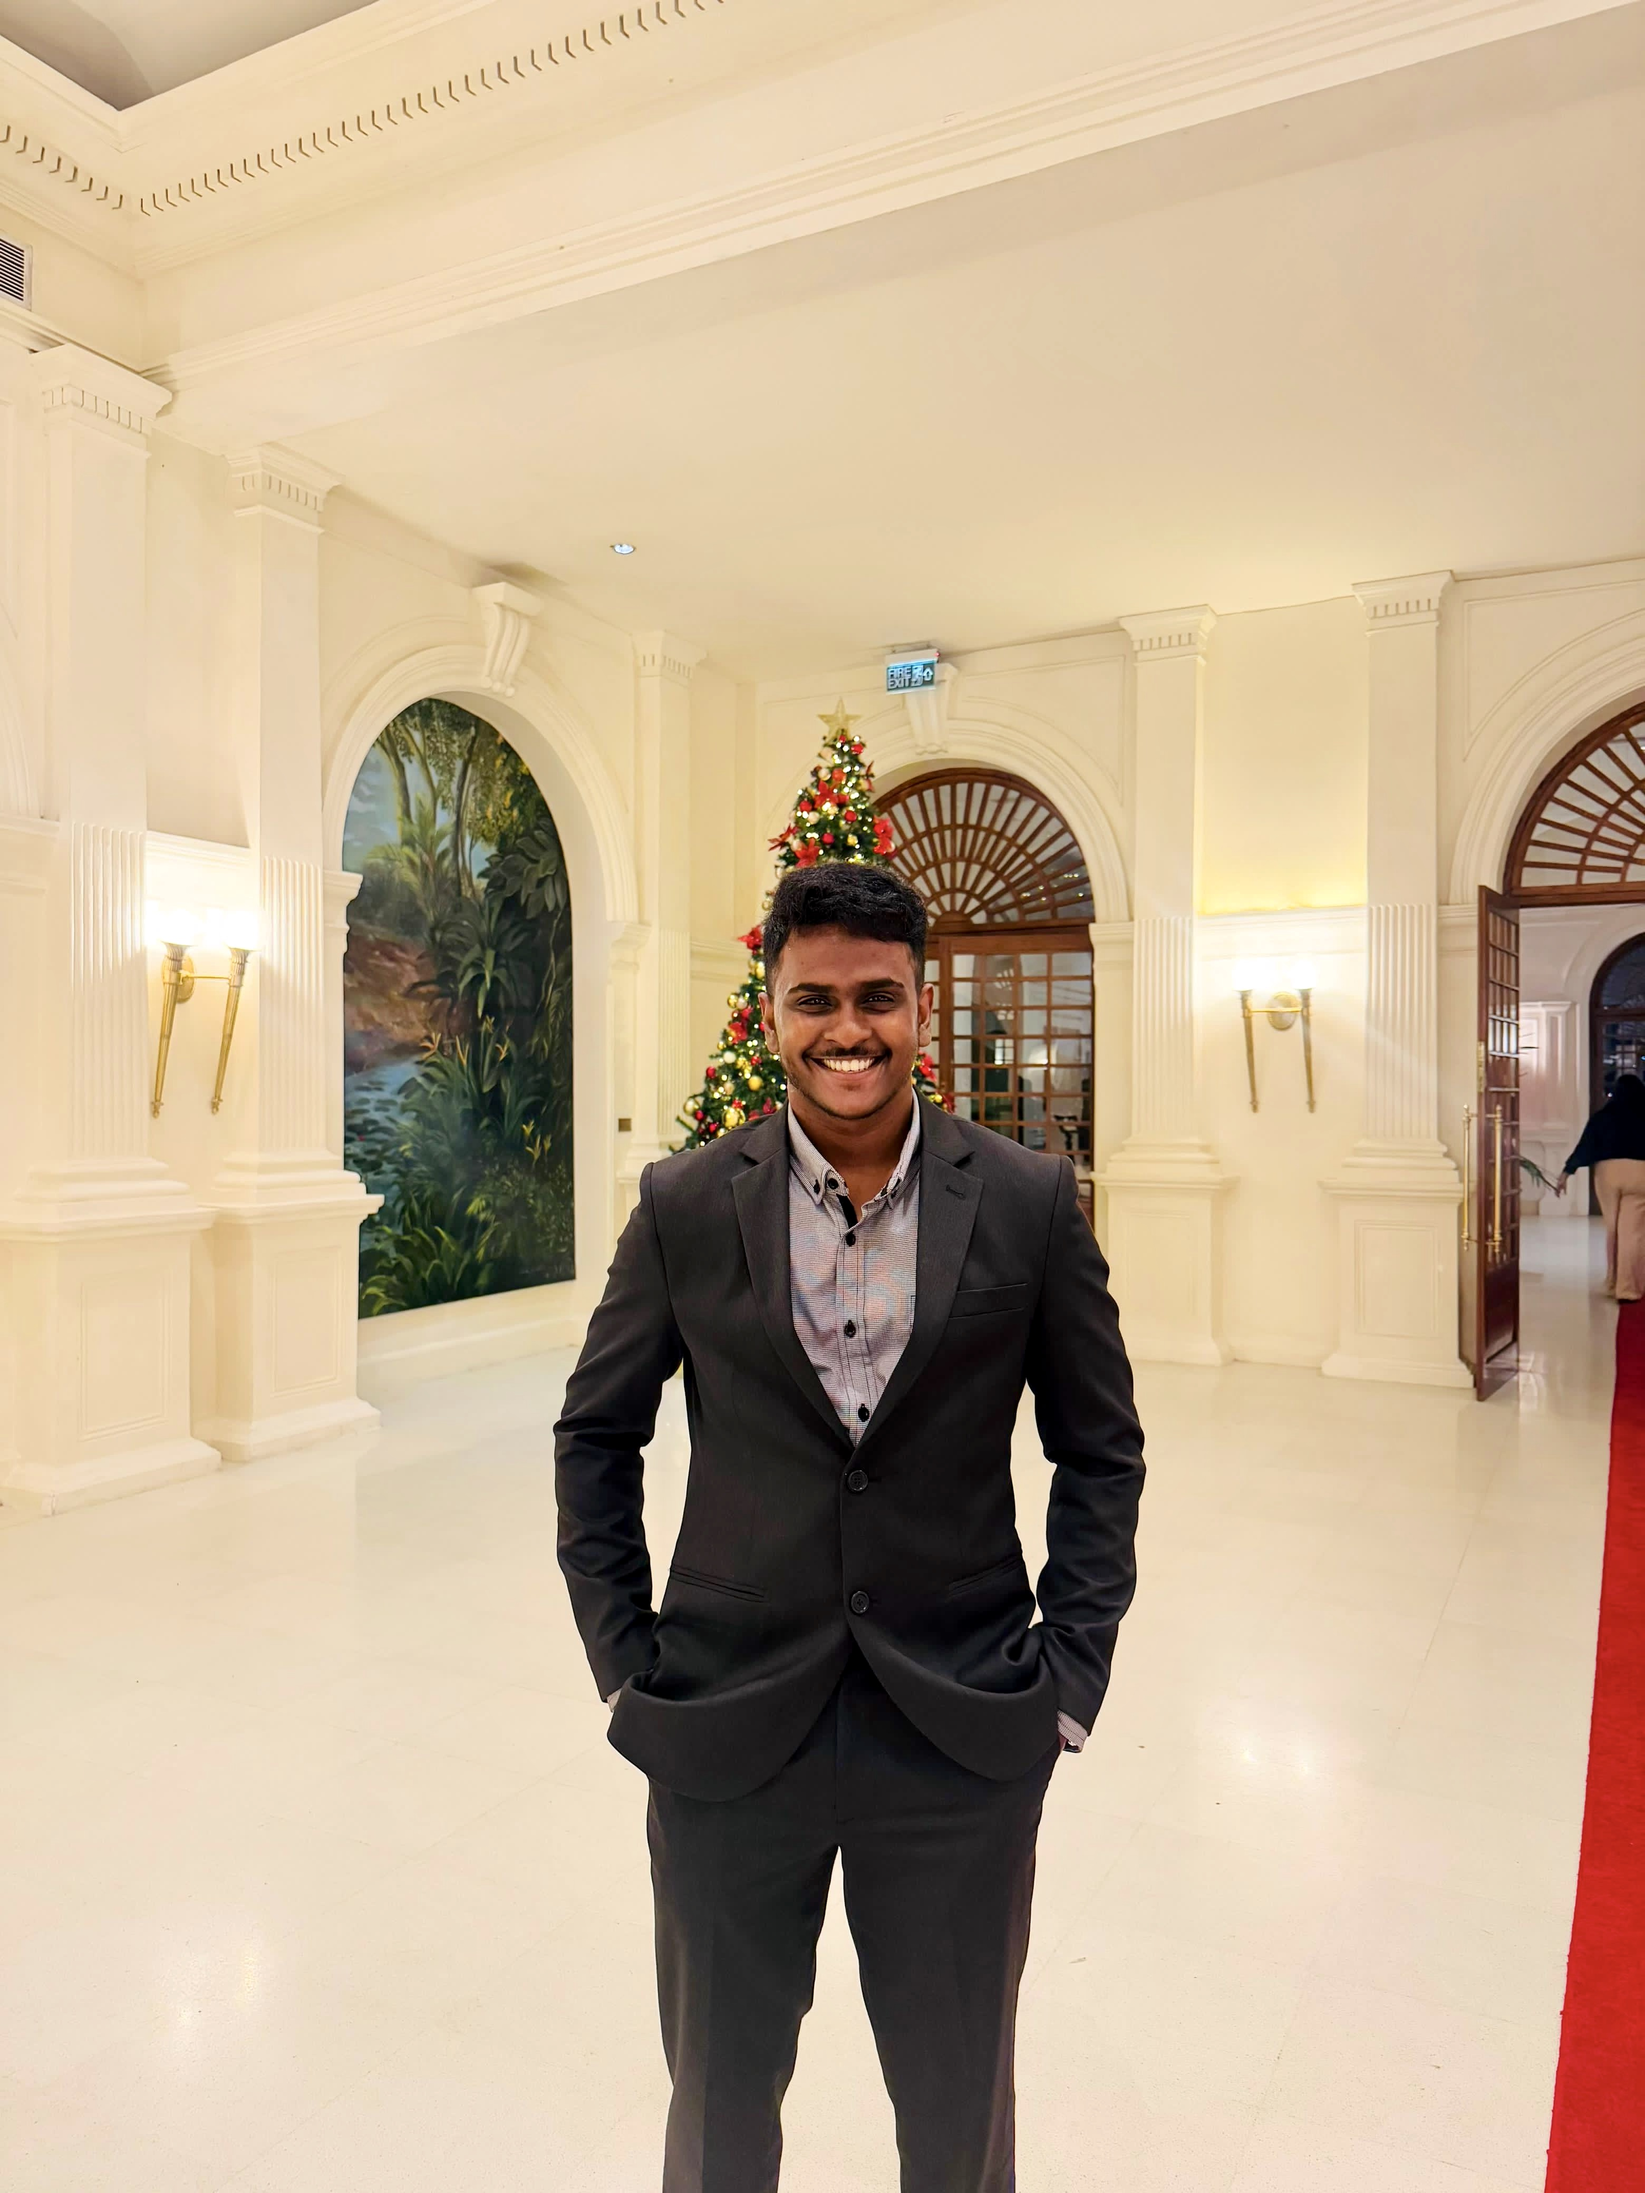
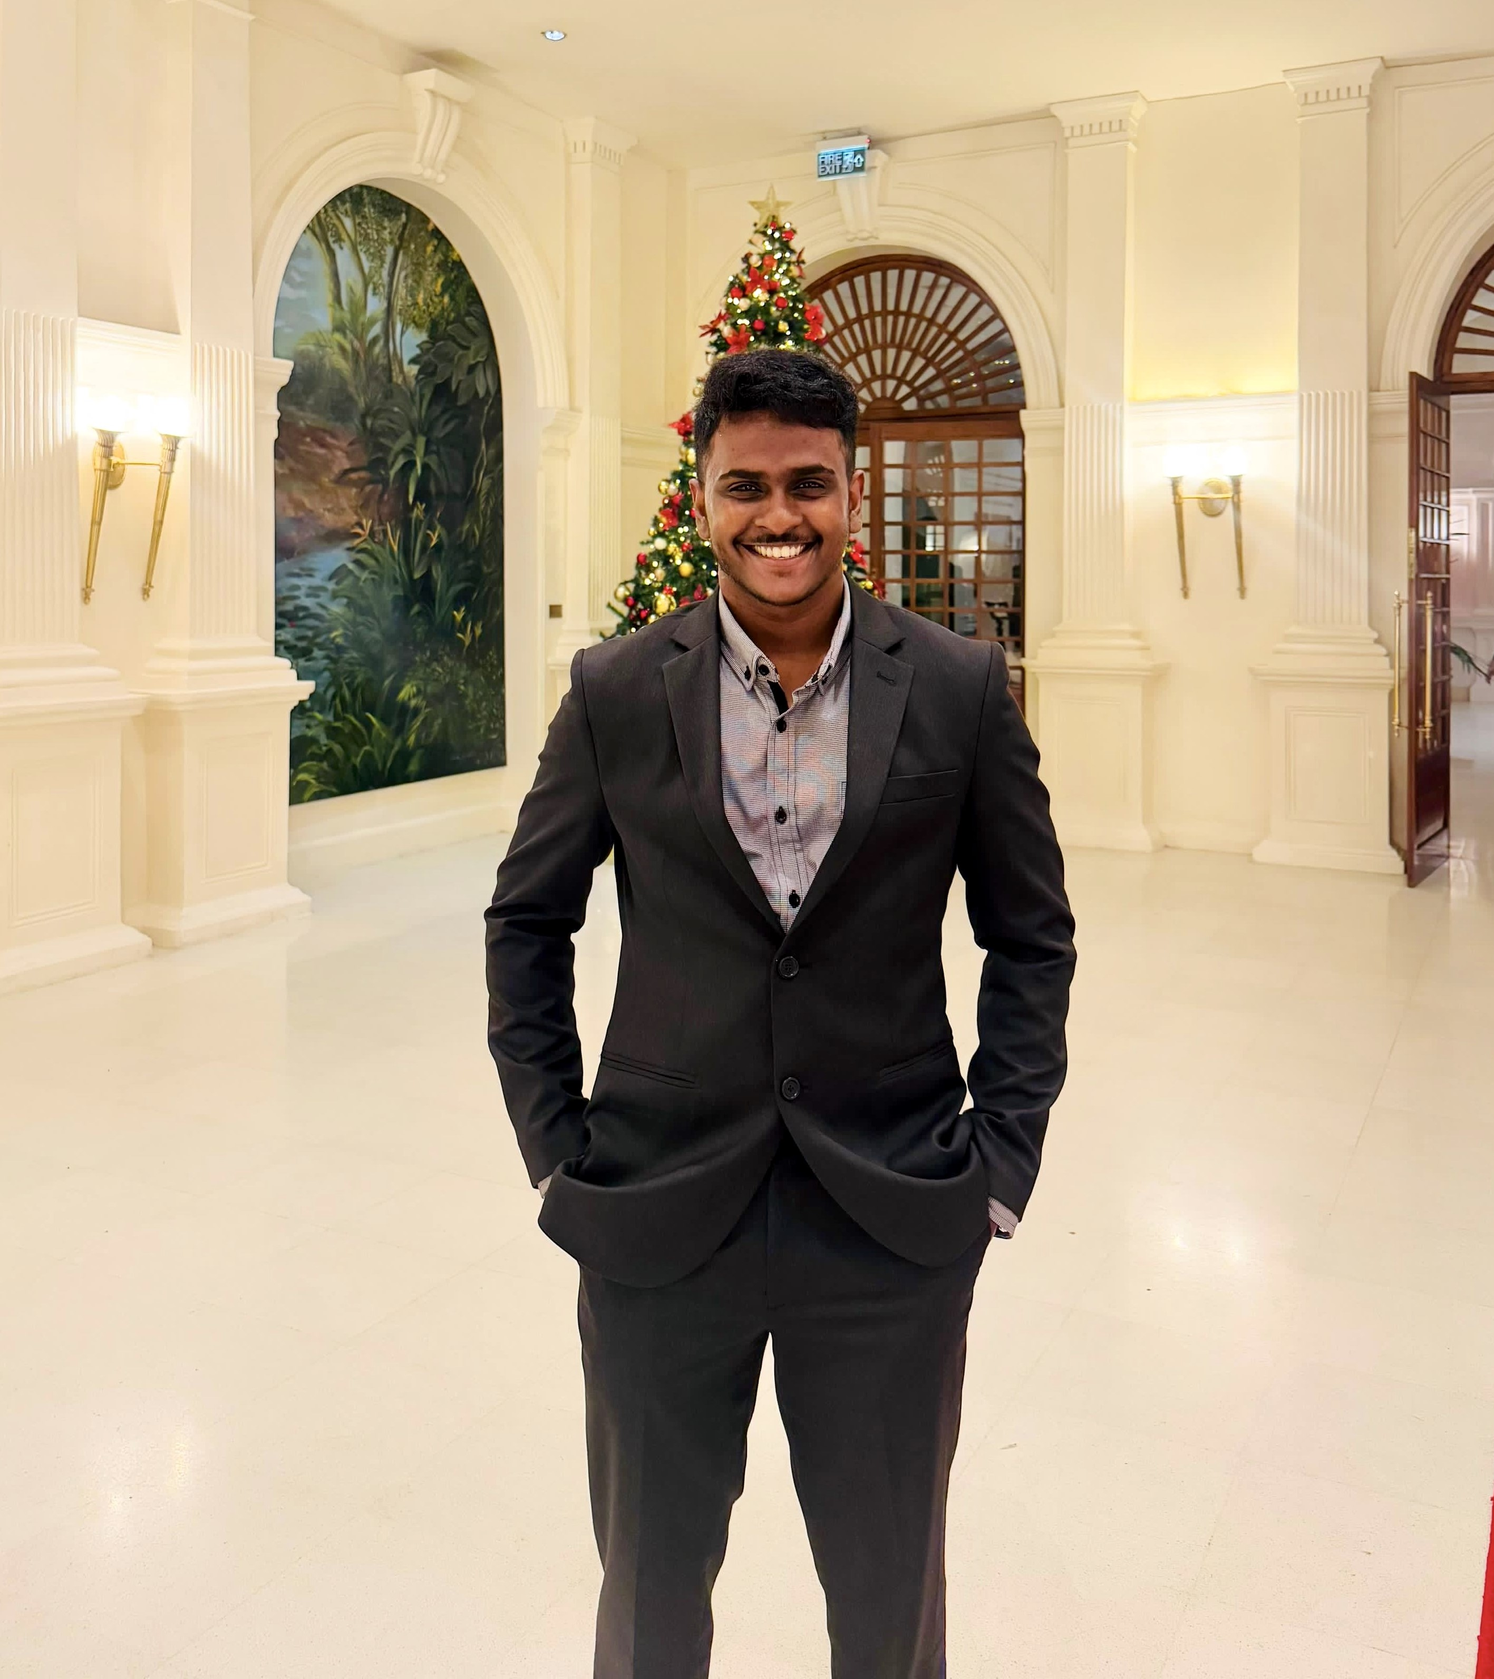
Developed About & Education  sections

diff --git a/css/style.css b/css/style.css
@@ -76,7 +76,7 @@ section {
     display: flex;
     align-items: center;
     padding: 0 9%;
-    /* background: url('../images/nadul.jpg') no-repeat;
+    /*background: url('../images/nadul1.jpg') no-repeat;
     background-size: cover;
     background-position: center; */
 }
@@ -223,12 +223,167 @@ section {
     height: 100;
     background: transparent;
     border: 2px solid red;
+}  */
+
+.about {
+    display: flex;
+    justify-content: center;
+    align-items: center;
+    flex-direction: column;
+    gap: 2rem;
+    background: var(--second-bg-color);
+    padding-bottom: 6rem;
+}
+
+.heading {
+    font-size: 5rem;
+    margin-bottom: 3rem;
+    text-align: center;
+}
+
+span{
+    color: var(--main-color);
+}
+
+/*.about-img .circle-spin{
+    position: absolute;
+    top: 50%;
+    left: 50%;
+    transform: translate(-50%,-50%) rotate(0);
+    width: 100%;
+    height: 100%;
+    border-radius: 50%;
+    border-top: .2rem solid var(--second-bg-color);
+    border-bottom: .2rem solid var(--second-bg-color);
+    border-left: .2rem solid var(--main-color);
+    border-right: .2rem solid var(--main-color);
 } */
 
+.about-img {
+    position: relative;
+    width: 40rem;
+    height: 40rem;
+    border-radius: 50%;
+    display: flex;
+    justify-content: center;
+    align-items: center;
+}
 
+.about-img img {
+    width: 90%;
+    border-radius: 50%;
+    border: .2rem solid var(--main-color);
+}
 
+.about-content{
+    text-align: center;
+}
 
+.about-content h3{
+    font-size: 2.6rem;
+}
 
+.about-content p{
+    font-size: 1.6rem;
+    margin: 2rem 0 3rem;
+}
+
+.btn-box.btn {
+    display: inline-block;
+    width: 15rem;
+}
+
+.btn-box.btn a::before{
+    background: var(--second-bg-color);   
+}
+
+.education {
+    display: flex;
+    justify-content: center;
+    align-items: center;
+    flex-direction: column;
+    min-height: auto;
+    padding-bottom: 5rem;
+}
+
+.education .education-row{
+    display: flex;
+    flex-wrap: wrap;
+    gap: 5rem;
+}
+
+.education-row .education-column{
+    flex: 1 1 40rem;
+}
+
+.education-column .title {
+    font-size: 2.5rem;
+    margin: 0 0 1.5rem 2rem;
+}
+
+.education-column .education-box{
+    border-left: .2rem solid var(--main-color);
+}
+
+.education-box .education-content {
+    position: relative;
+    padding-left: 2rem;
+}
+
+.education-box .education-content::before{
+    content: '';
+    position: absolute;
+    top: 0;
+    left: -1.1rem;
+    width: 2rem;
+    height: 2rem;
+    background: var(--main-color);
+    border-radius: 50%;
+}
+
+.education-content .content{
+    position: relative;
+    padding: 1.5rem;
+    border: .2rem solid var(--main-color);
+    border-radius: .6rem;
+    margin-bottom: 2rem;
+    overflow: hidden;
+}
+
+.education-content .content::before{
+    content: '';
+    position: absolute;
+    top: 0;
+    left: 0;
+    width: 0;
+    height: 100%;
+    background: var(--second-bg-color);
+    z-index: -1;
+    transition: .75s;
+}
+
+.education-content .content:hover::before{
+    width:100%
+}
+
+.education-content .content .year{
+    font-size: 1.5rem;
+    color: var(--main-color);
+    padding-bottom: .5rem;
+}
+
+.education-content .content .year i{
+    padding-right: .5rem;
+}
+
+.education-content .content h3{
+    font-size: 2rem;
+}
+
+.education-content .content p{
+    font-size: 1.6rem;
+    padding-top: .5rem;
+}
 
 
 

diff --git a/index.html b/index.html
@@ -61,24 +61,64 @@
         <h2 class="heading">About <span>Me</span></h2>
 
         <div class="about-img">
-            <img src="images/nadul.jpg" alt="">
+            <img src="images/nadul1.jpg" alt="">
             <span class="circle-spin"></span>
-        </div>
+        </div> 
 
         <div class="about-content">
             <h3>Data Scientist!</h3>
             <p>Description</p>
 
             <div class="btn-box btns">
-                <a href="" class="btn">read More</a>
+                <a href="" class="btn">Read More</a>
             </div>
 
         </div>
-
-
-
-
     </section>
+
+    <!-- education section design -->
+    <section class="education" id="education">
+        <h2 class="heading">My <span>Journey</span></h2>
+
+        <div class="education-row">
+            <div class="education-column">
+                <h3 class="title">Education</h3>
+                <div class="education-box">
+                    <div class="education-content">
+                        <div class="content">
+                            <div class="year"><i class='bx bxs-calendar'></i> Feb 2007 - Aug 2020</div>
+                            <h3>Primary and Secondary Education</h3>
+                            <p>Description</p>
+                        </div>
+                    </div>
+
+                    <div class="education-content">
+                        <div class="content">
+                            <div class="year"><i class='bx bxs-calendar'></i> Jul 2020 - </div>
+                            <h3>BSc (Hons) in Applied Sciences in Statistics</h3>
+                            <p>Description</p>
+                        </div>
+                    </div>
+
+                    <div class="education-content">
+                        <div class="content">
+                            <div class="year"><i class='bx bxs-calendar'></i> Feb 2023 - </div>
+                            <h3>BSc in Financial Engineering (External)</h3>
+                            <p>Description</p>
+                        </div>
+                    </div>
+
+                </div>
+            </div>
+        </div>
+    </section>
+
+    <!-- skills section design -->
+    <section class="skills" id="skills">
+
+        
+    </section>
+
 
 
 
